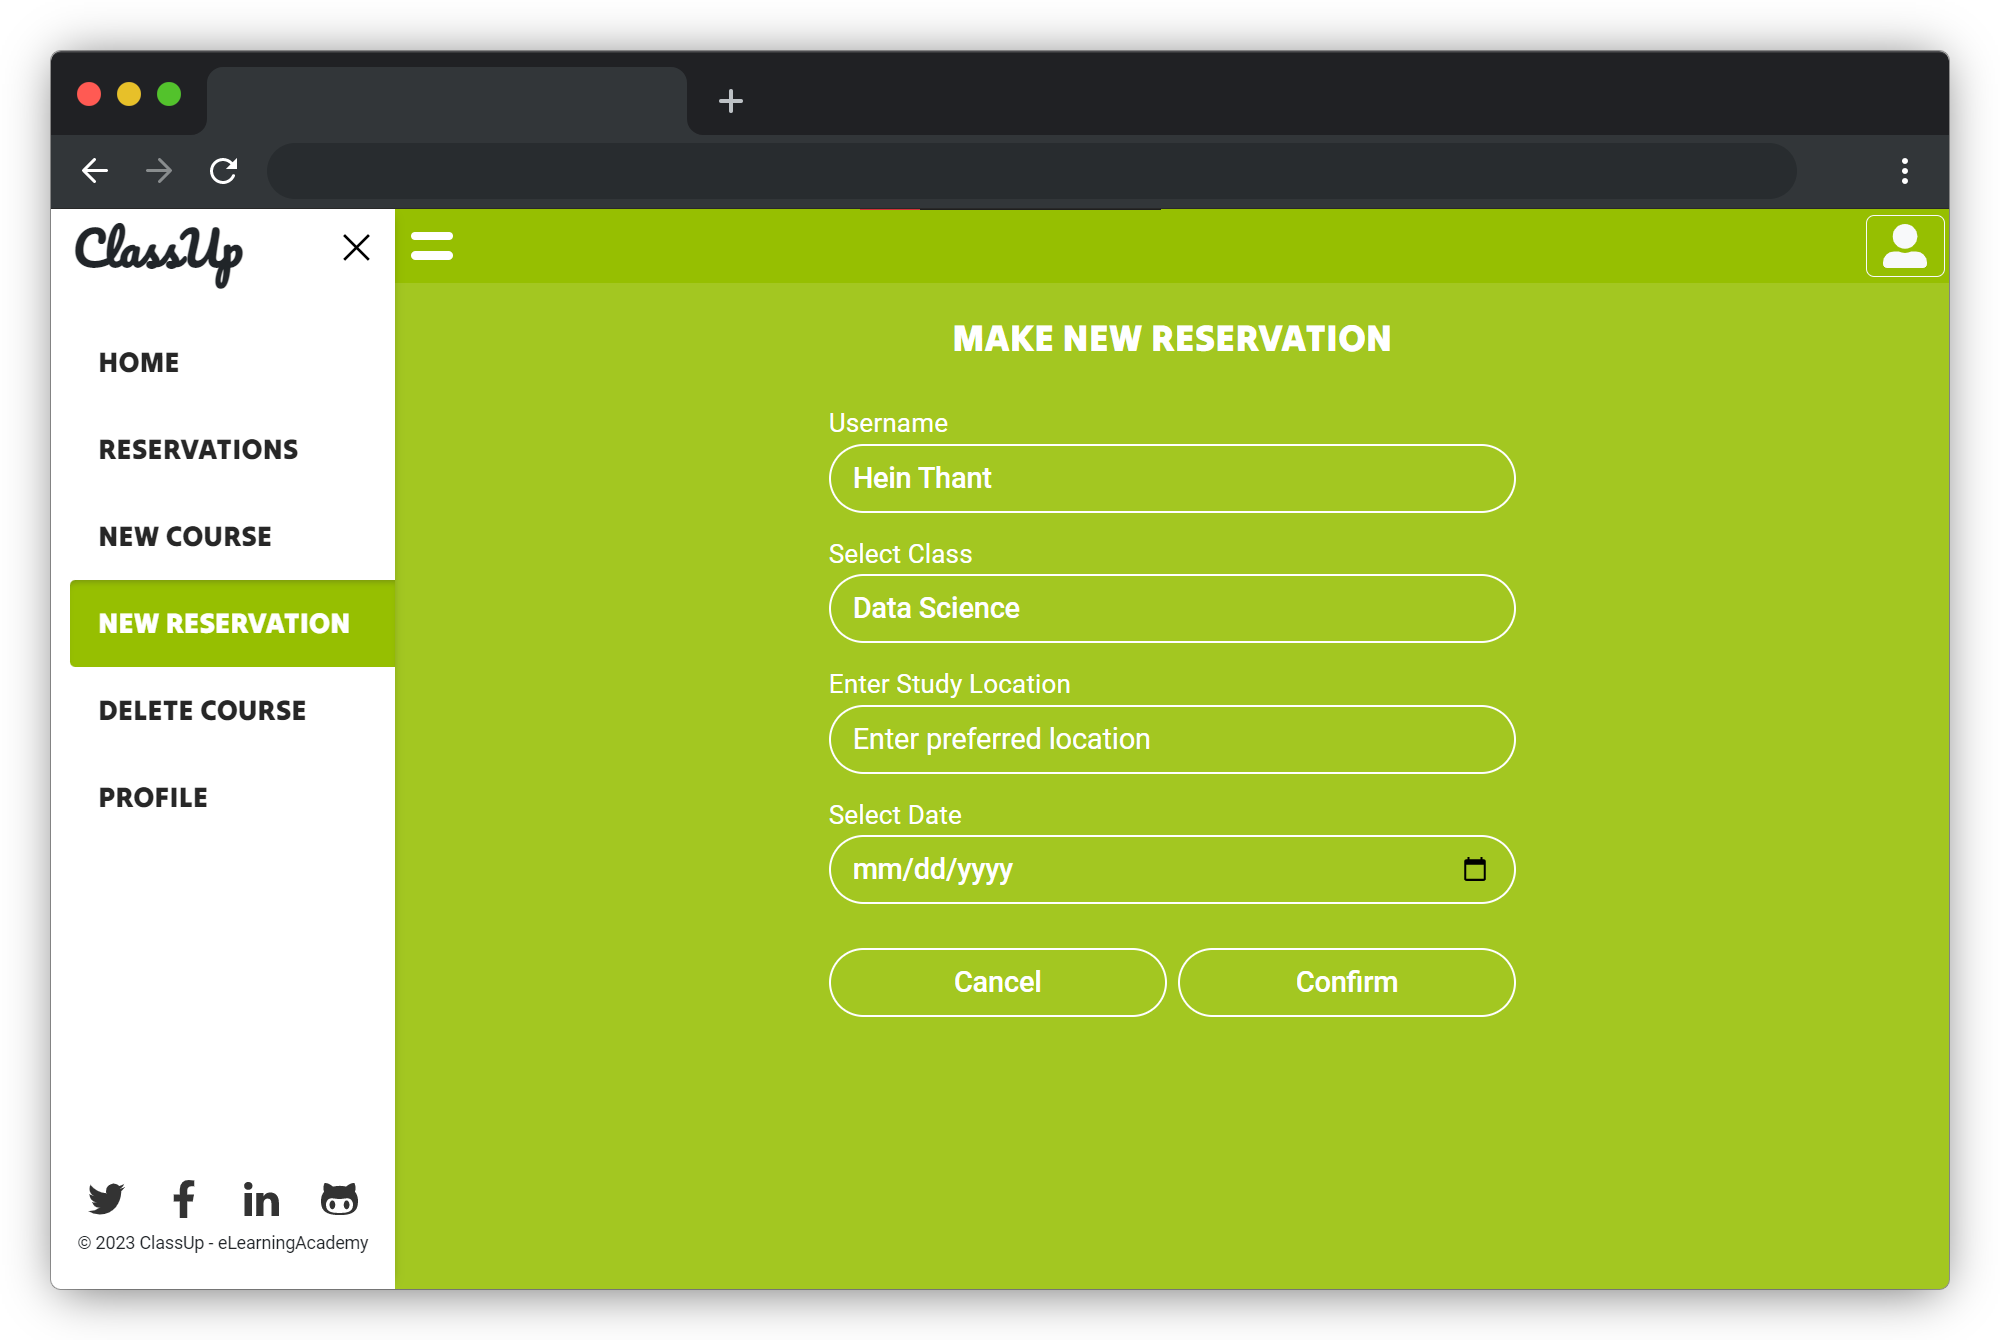
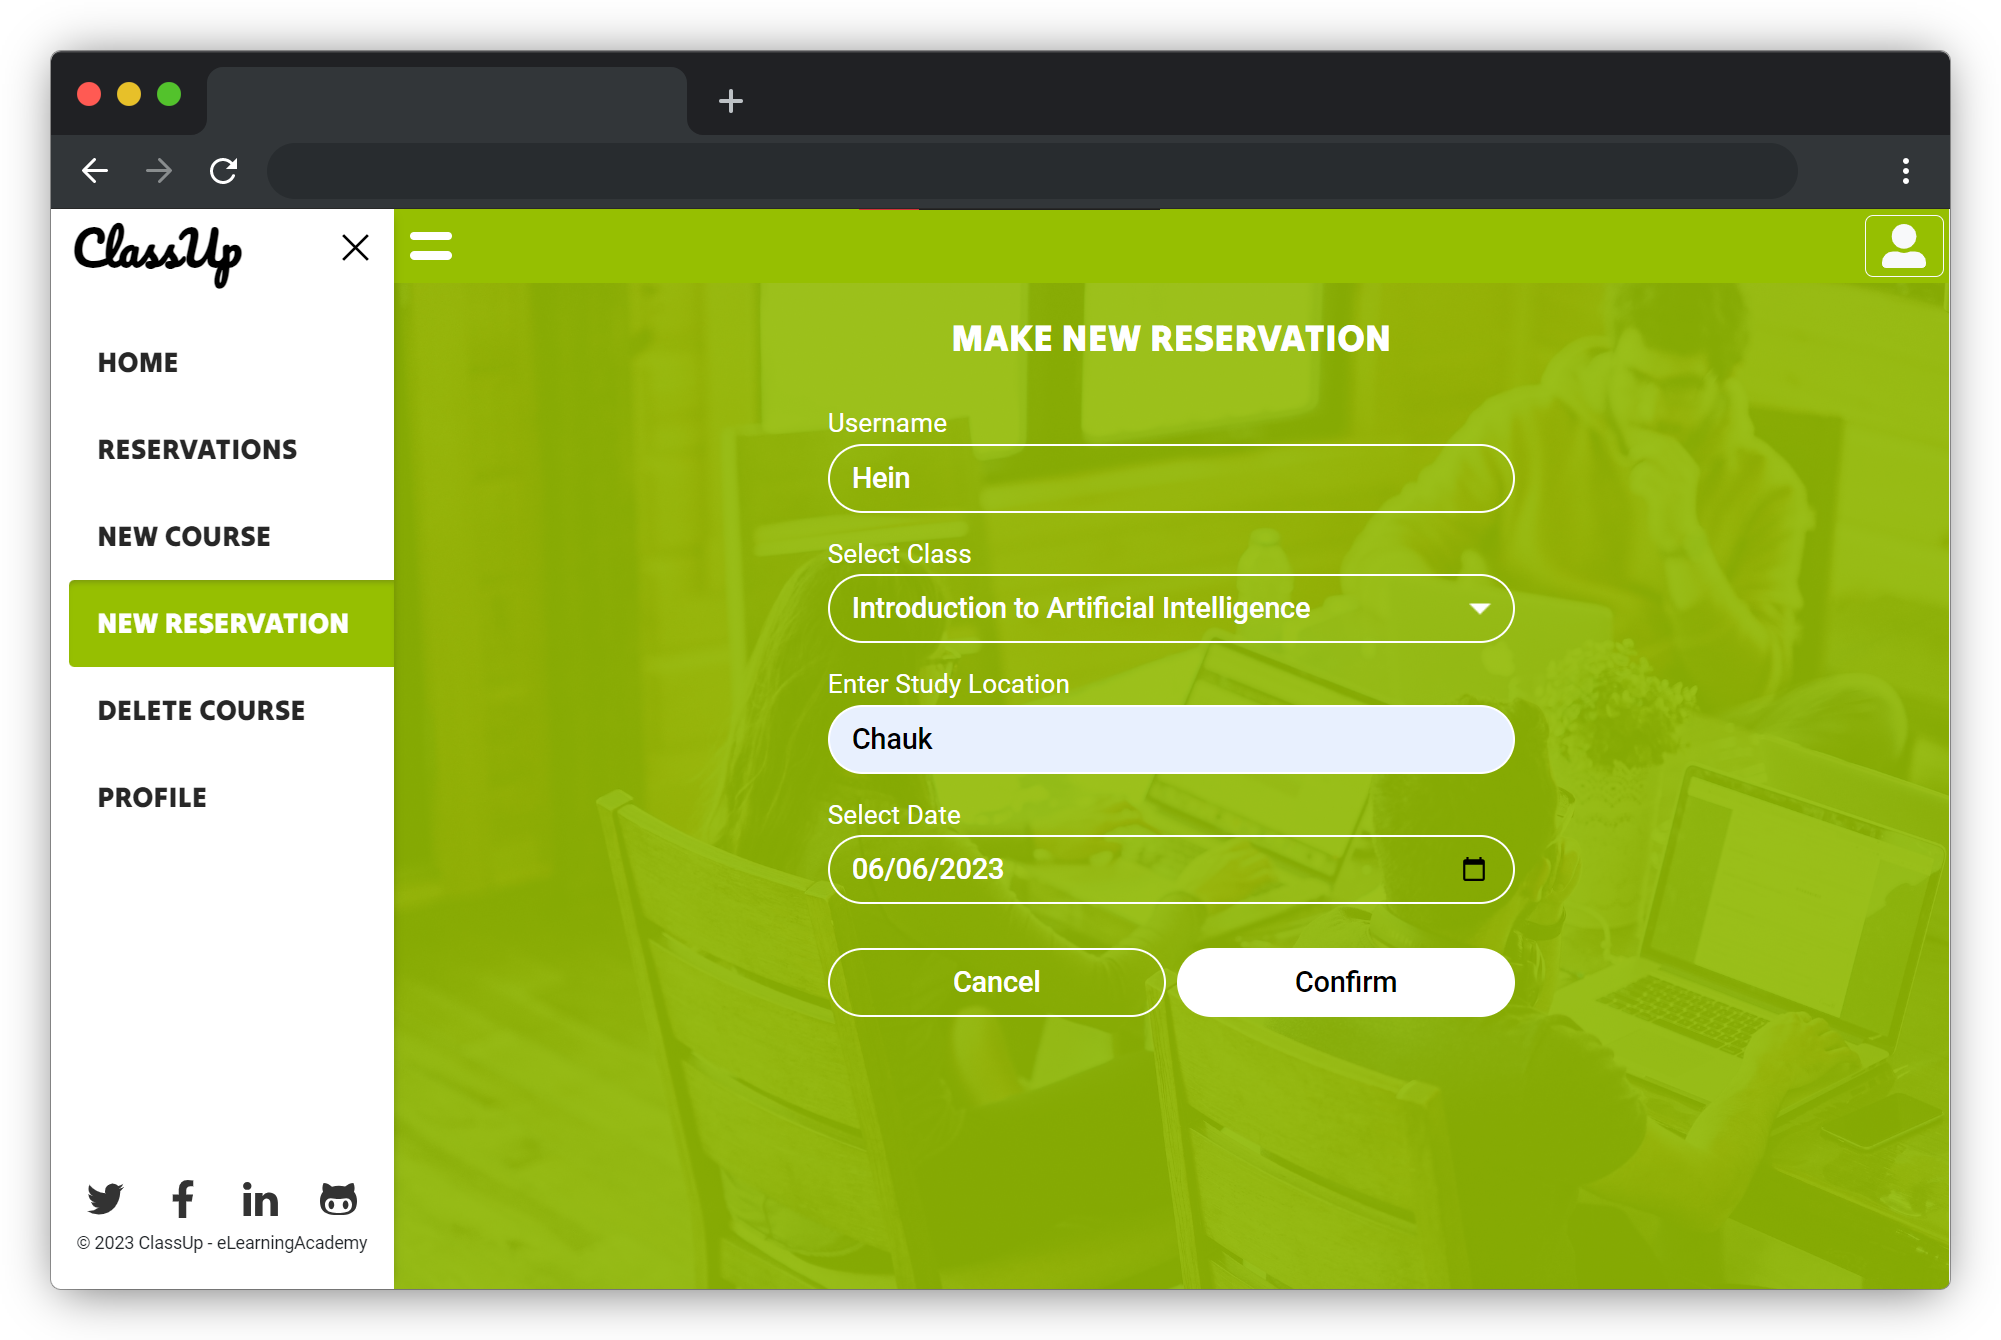
Update README

diff --git a/README.md b/README.md
@@ -1,6 +1,6 @@
 <a name="readme-top"></a>
 [![Contributors](https://img.shields.io/github/contributors/IndieCoderMM/e-learning-academy)](https://github.com/IndieCoderMM/e-learning-academy/graphs/contributors)
-[![LastUpdate](https://img.shields.io/github/last-commit/IndieCoderMM/e-learning-academy)](https://github.com/IndieCoderMM/e-learning-academy/commits/main)
+[![LastUpdate](https://img.shields.io/github/last-commit/IndieCoderMM/e-learning-academy)](https://github.com/IndieCoderMM/e-learning-academy/commits/dev)
 [![Stargazers](https://img.shields.io/github/stars/IndieCoderMM/e-learning-academy)](https://github.com/IndieCoderMM/e-learning-academy/stargazers)
 [![Issues](https://img.shields.io/github/issues/IndieCoderMM/e-learning-academy)](https://github.com/IndieCoderMM/e-learning-academy/issues)
 [![License](https://img.shields.io/github/license/IndieCoderMM/e-learning-academy)](https://github.com/IndieCoderMM/e-learning-academy/blob/main/LICENSE)
@@ -237,6 +237,21 @@ This app was designed based on an original design idea by [Murat Korkmaz](https:
 We would like to thank Murat Korkmaz for this inspiring design.
 
 - [App Design Template](https://www.behance.net/gallery/26425031/Vespa-Responsive-Redesign)
+
+<p align="right">(<a href="#readme-top">back to top</a>)</p>
+
+## 💎 Resources
+🎨 **Colors**
+- 🟢 Accent: #96bf01
+
+🖌 **Fonts**
+- Logo: [Pacifico](https://fonts.google.com/specimen/Pacifico)
+- Title: [Tilt Warp](https://fonts.google.com/specimen/Tilt+Warp)
+- Normal: [Roboto](https://fonts.google.com/specimen/Roboto)
+
+🖼 **Images**
+- [Landscape Background](https://unsplash.com/photos/dWYU3i-mqEo?utm_source=unsplash&utm_medium=referral&utm_content=creditCopyText)
+- [Portrait Background](https://unsplash.com/photos/vGgn0xLdy8s?utm_source=unsplash&utm_medium=referral&utm_content=creditCopyText)
 
 <p align="right">(<a href="#readme-top">back to top</a>)</p>
 
